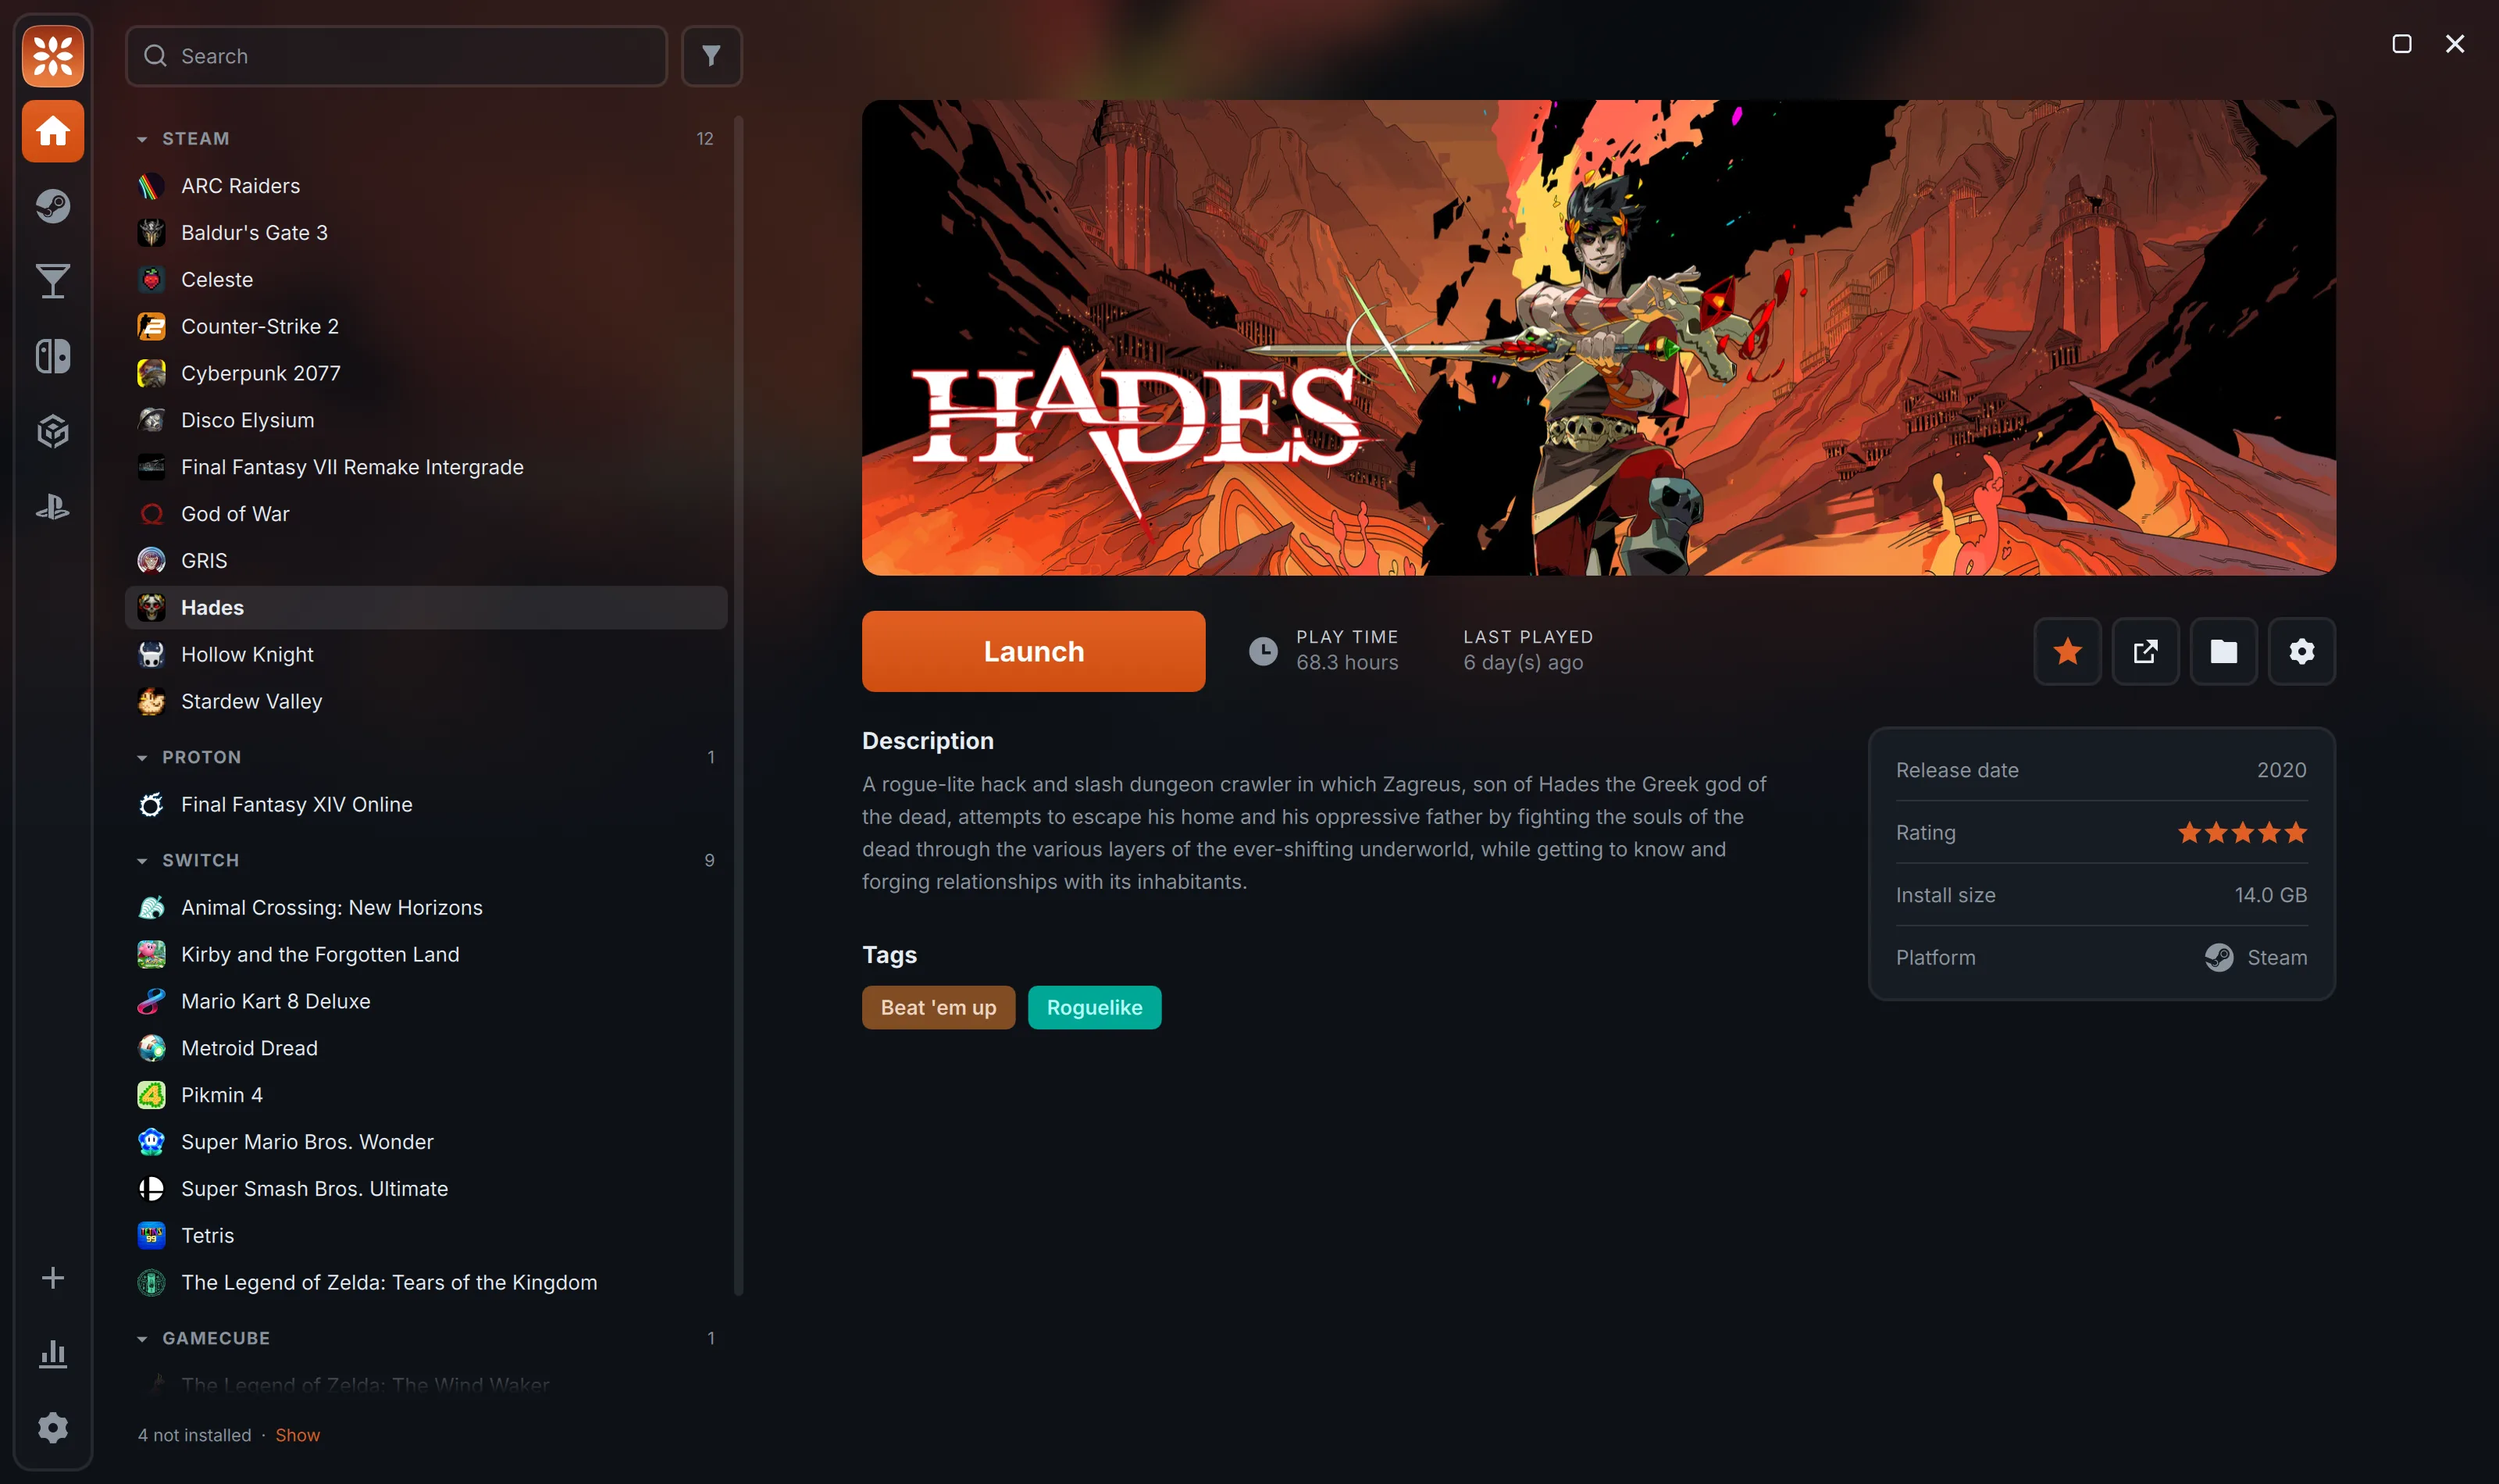
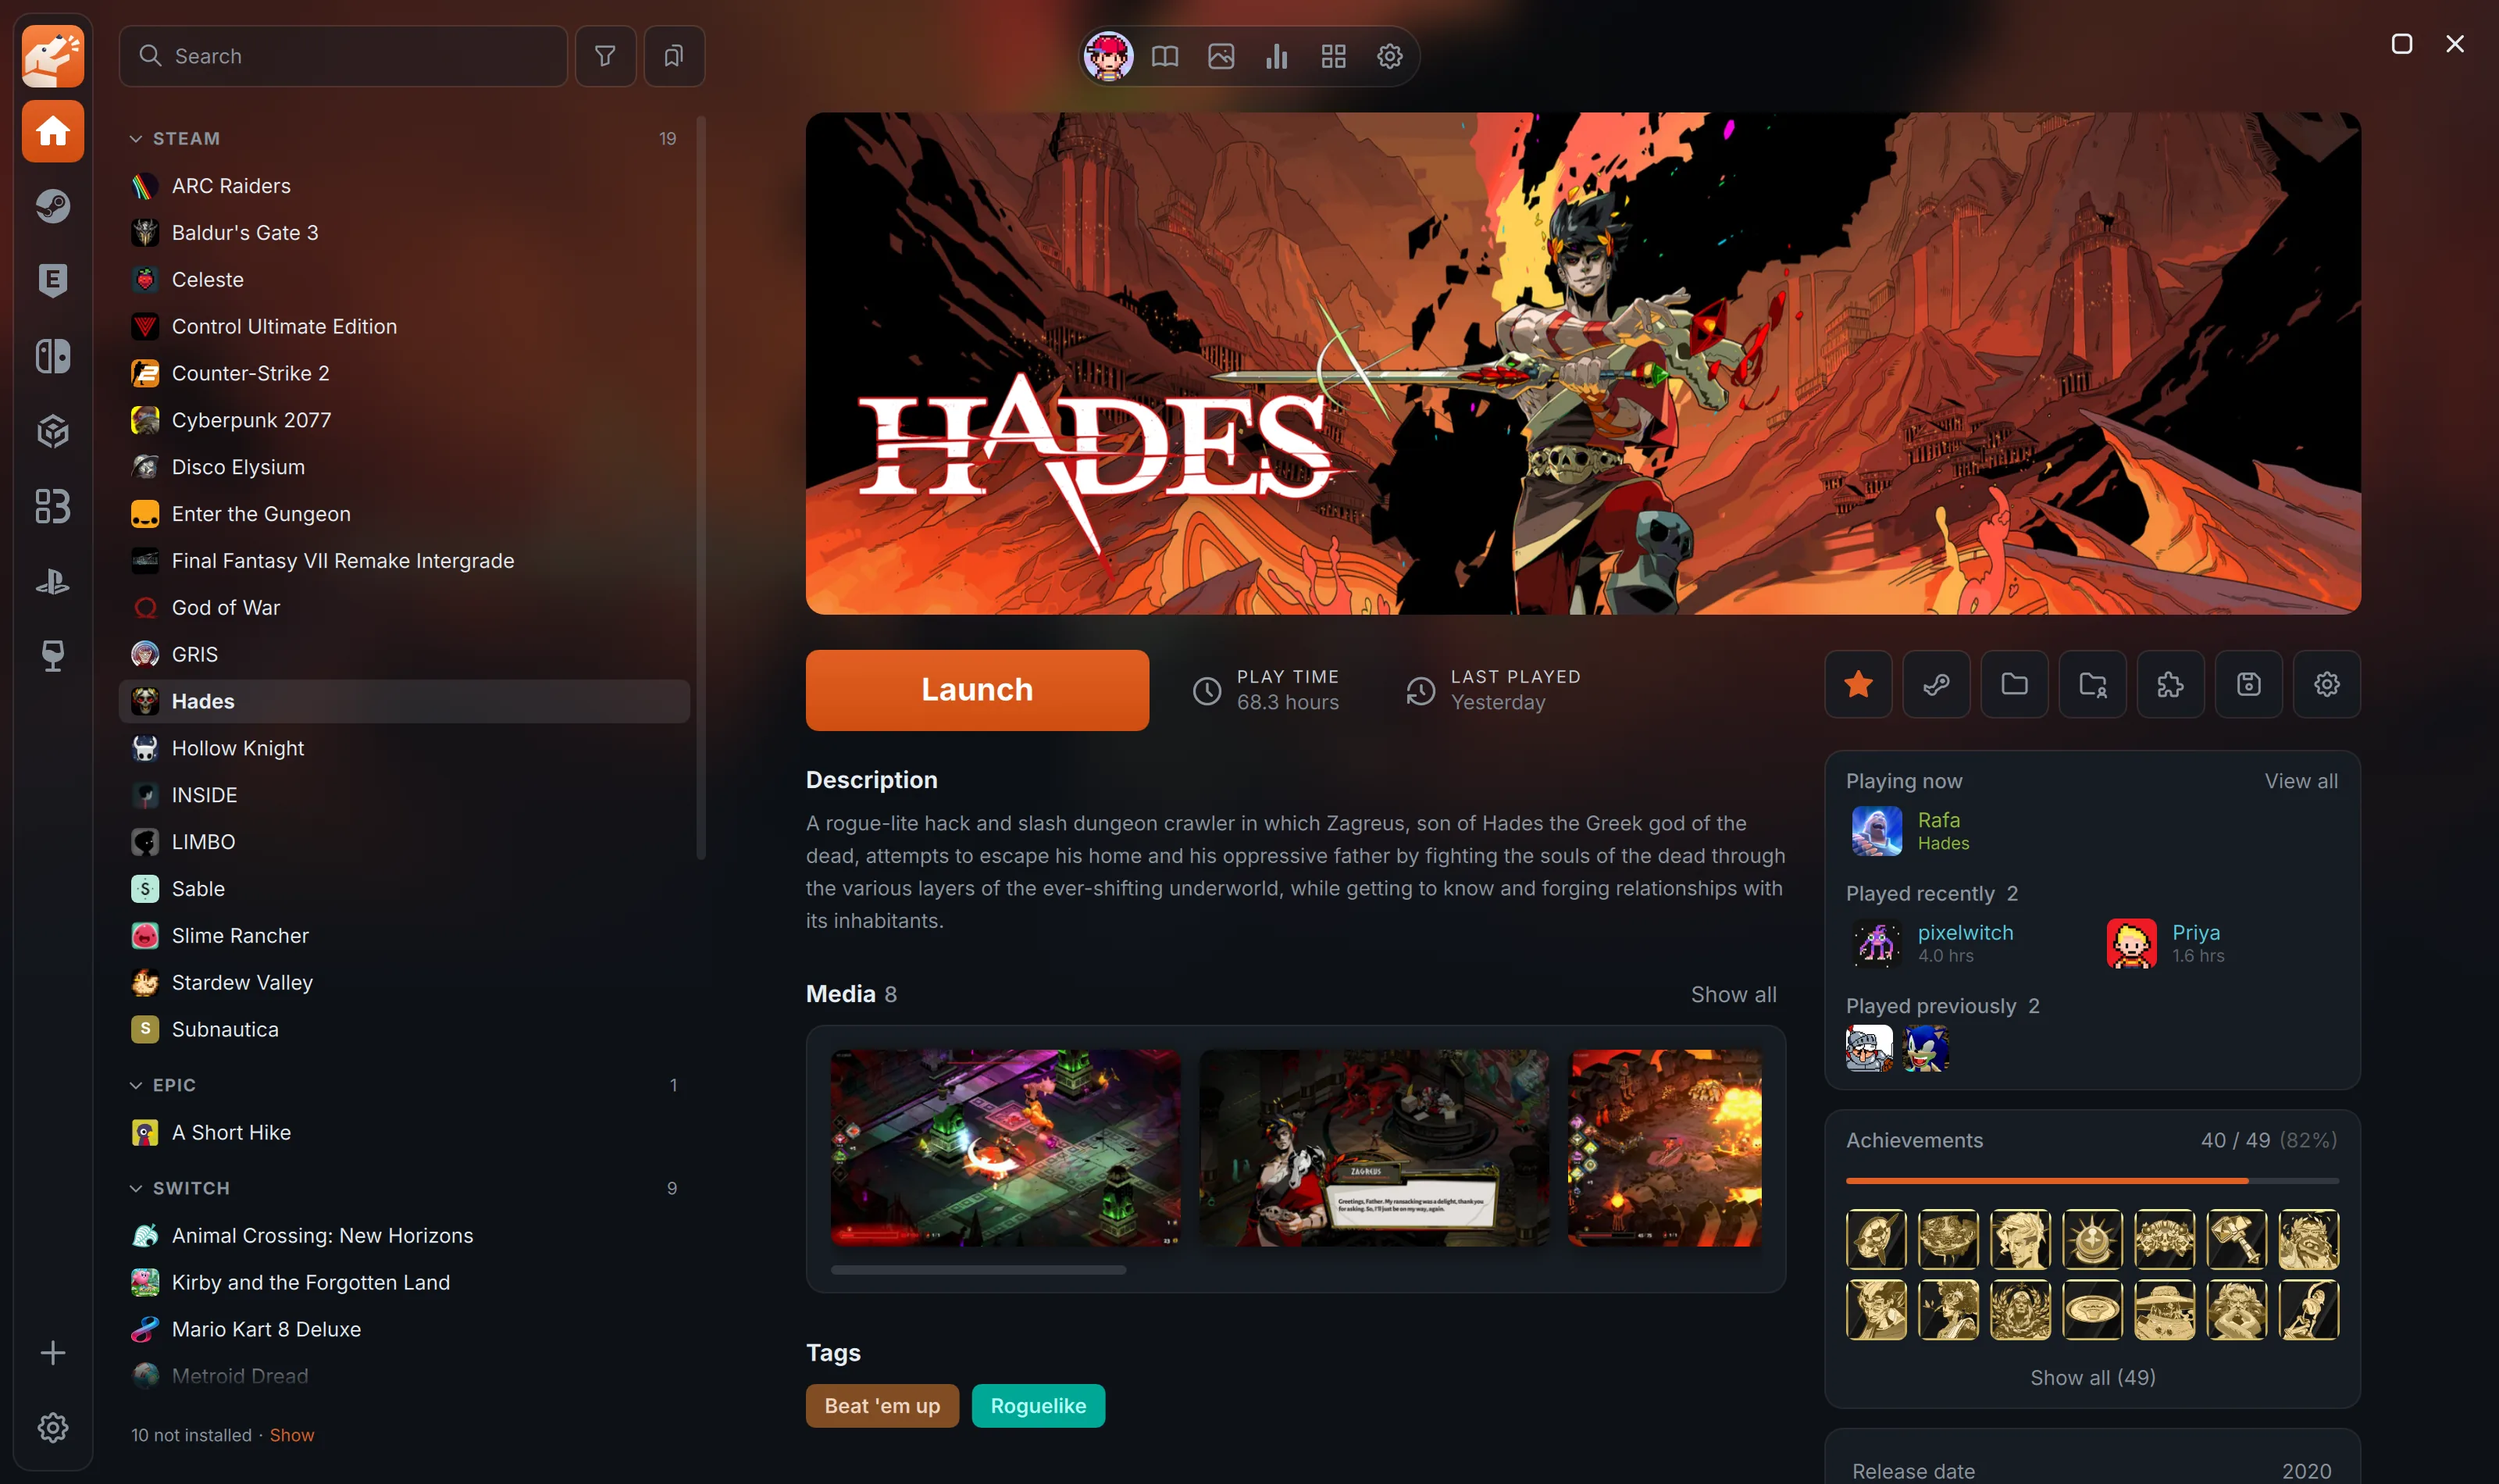
docs: new screenshots in the readme, and how lattis installs and updates

diff --git a/README.md b/README.md
@@ -19,7 +19,7 @@ Emulators, Steam, Proton and native games in one library, kept in one folder you
 </div>
 
 <p align="center">
-  <img src="resources/screenshots/hades.webp" alt="The Lattis library: a sidebar of games grouped by platform and the page for Hades, with its hero art, a Launch button, play time, rating and tags" width="900">
+  <img src="resources/screenshots/hades.webp" alt="The Lattis library: a sidebar of games grouped by platform and the page for Hades, with its hero art, a Launch button, play time, media, friends who play it and achievements" width="900">
 </p>
 
 ---
@@ -27,6 +27,19 @@ Emulators, Steam, Proton and native games in one library, kept in one folder you
 ## About
 
 Lattis brings every game you own on Linux into a single, fast library: games for fourteen emulators, your installed Steam games, Windows games run through Proton, and native Linux games. It's written in C++20 with a Qt Quick interface, starts in a fraction of a second, and lets you change almost everything you see.
+
+## Screenshots
+
+|                                                                                                                                                                           |                                                                                                                                               |
+| ------------------------------------------------------------------------------------------------------------------------------------------------------------------------- | --------------------------------------------------------------------------------------------------------------------------------------------- |
+| ![The page for Baldur's Gate 3 in the Steam theme, with games grouped by when they were last played](resources/screenshots/steam-theme.webp)                              | ![Grid view in the Catppuccin theme: a wall of game covers, with the selected game's art, Launch button and details in a side panel](resources/screenshots/grid.webp) |
+| **8 bundled themes, including Steam**                                                                                                                                     | **Grid view**                                                                                                                                 |
+| ![Library overview in the Rose Pine theme: games, hours played, backlog and achievements, the games to continue, storage by platform and games by platform](resources/screenshots/overview.webp) | ![Gallery in the Nord theme: every screenshot in the library by month, with filters for type, platform, game and date](resources/screenshots/gallery.webp)      |
+| **Library overview**                                                                                                                                                      | **A gallery with your screenshots and clips**                                                                                                 |
+| ![Play statistics for November in the Moss theme: hours per day, by platform and week, and the most played games](resources/screenshots/stats.webp)                                         | ![Customize: the Ember palette, each color with a swatch and its value](resources/screenshots/customize.webp)                                 |
+| **Play statistics**                                                                                                                                                       | **Edit any color live**                                                                                                                       |
+| ![Look up missing info: matched games with a description, year, rating, tags and new art to apply](resources/screenshots/lookup.webp)                                           | ![The setup guide's first step, over a wall of game covers](resources/screenshots/setup-1.webp)                                               |
+| **Review metadata and art before anything is saved**                                                                                                                      | **A guided first start**                                                                                                                      |
 
 ## Features
 
@@ -40,20 +53,12 @@ Lattis brings every game you own on Linux into a single, fast library: games for
 - **One folder to back up.** Your library, settings, themes and art live in a single data folder. Copy it, or use the built-in backup and import of your library and saves, and back up a game's saves automatically when it closes.
 - **Guided first start.** A short setup guide imports Steam, finds your emulators and ROM folders, and sets up art lookups and your look.
 
-## Screenshots
-
-| | |
-|---|---|
-| ![Customize: the Ember palette, each color with a swatch and its value](resources/screenshots/customize.webp) | ![Look up missing info: matched games with a description, year, rating and new art to apply](resources/screenshots/lookup.webp) |
-| **Edit any color live, with undo** | **Review metadata and art before anything is saved** |
-| ![Play statistics: hours per day, by platform and week, and the most played games](resources/screenshots/stats.webp) | ![The setup guide's first step, over a wall of game covers](resources/screenshots/setup-1.webp) |
-| **Play statistics** | **A guided first start** |
-
 ## Installation
 
 Lattis ships as an AppImage: a single file with everything it needs, which runs on x86_64 Ubuntu 22.04, Debian 12, Fedora 36, SteamOS 3 or newer.
 
 1. Download `Lattis-<version>-x86_64.AppImage` from the [latest release](https://github.com/mines-cmd/lattis/releases/latest).
+
 2. Make it executable: right-click it → Properties → "Allow executing as a program", or run:
 
    ```sh
@@ -62,7 +67,14 @@ Lattis ships as an AppImage: a single file with everything it needs, which runs 
 
 3. Double-click it to start. A setup guide walks you through the first start.
 
-Keeping it in `~/Applications` is a good habit; tools like [Gear Lever](https://flathub.org/apps/it.mijorus.gearlever) can add it to your app menu. To open Lattis when you log in, turn on **Start at login** in Settings → General. The AppImage updates itself from the app: once a day it checks the latest release (one request to GitHub; switch it off in Settings → General) and offers to replace itself. If Gear Lever manages the file, update it there. See [Getting started](docs/guide/getting-started.md) in the user guide for more.
+Lattis takes care of the rest itself:
+
+- **Menu entry.** The first time it runs, it adds itself to your applications menu, with its icon. If you move the file, the entry follows it.
+- **A place for it.** **Move** in Settings → General, or on the setup guide's last step, puts the AppImage in `~/Applications`, next to the emulators it installs. The menu entry follows it.
+- **Updates.** Once a day it checks for a new release (one request to GitHub). When there is one, the app menu offers **Update to &lt;version&gt;** with the release notes. Lattis downloads it, replaces its own file in place, and restarts when you're ready. Turn the check off with **Check for updates** in Settings → General.
+- **Start at login.** Turn it on in Settings → General.
+
+See [Getting started](docs/guide/getting-started.md) in the user guide for more.
 
 ## Building from source
 
@@ -99,24 +111,24 @@ ctest --test-dir build
 
 Everything Lattis stores lives in `~/.local/share/lattis/`:
 
-| Path | Contents |
-|---|---|
-| `settings.toml` | The active colors and style, list sorting and filters, launch settings, and Steam options |
-| `library/` | Your games, one file each, plus platforms and tags |
-| `art/<game id>/` | Each game's hero, cover, logo and icon |
-| `themes/colors/`, `themes/styles/` | Your colors and styles, and your changes to the built-in ones |
-| `themes/*.toml` | Your themes, each naming a pair of colors and a style |
-| `credentials.toml` | Your IGDB and SteamGridDB keys, readable only by you |
+| Path                               | Contents                                                                                  |
+| ---------------------------------- | ----------------------------------------------------------------------------------------- |
+| `settings.toml`                    | The active colors and style, list sorting and filters, launch settings, and Steam options |
+| `library/`                         | Your games, one file each, plus platforms and tags                                        |
+| `art/<game id>/`                   | Each game's hero, cover, logo and icon                                                    |
+| `themes/colors/`, `themes/styles/` | Your colors and styles, and your changes to the built-in ones                             |
+| `themes/*.toml`                    | Your themes, each naming a pair of colors and a style                                     |
+| `credentials.toml`                 | Your IGDB and SteamGridDB keys, readable only by you                                      |
 
 `themes/colors/reference.toml` and `themes/styles/reference.toml` list every setting with its default and a description. See [Themes](docs/guide/themes.md) and [The data folder](docs/guide/data-folder.md) for details.
 
 ## Documentation
 
-| | |
-|---|---|
-| [User guide](docs/guide/README.md) | How to use every part of the app |
-| [Roadmap](docs/guide/roadmap.md) | The bigger features planned next |
-| [Code documentation](docs/code/) | How the code works, one page per part: library, launching, Steam, themes, QML and more |
+|                                    |                                                                                        |
+| ---------------------------------- | -------------------------------------------------------------------------------------- |
+| [User guide](docs/guide/README.md) | How to use every part of the app                                                       |
+| [Roadmap](docs/guide/roadmap.md)   | The bigger features planned next                                                       |
+| [Code documentation](docs/code/)   | How the code works, one page per part: library, launching, Steam, themes, QML and more |
 
 ## Disclaimer
 
